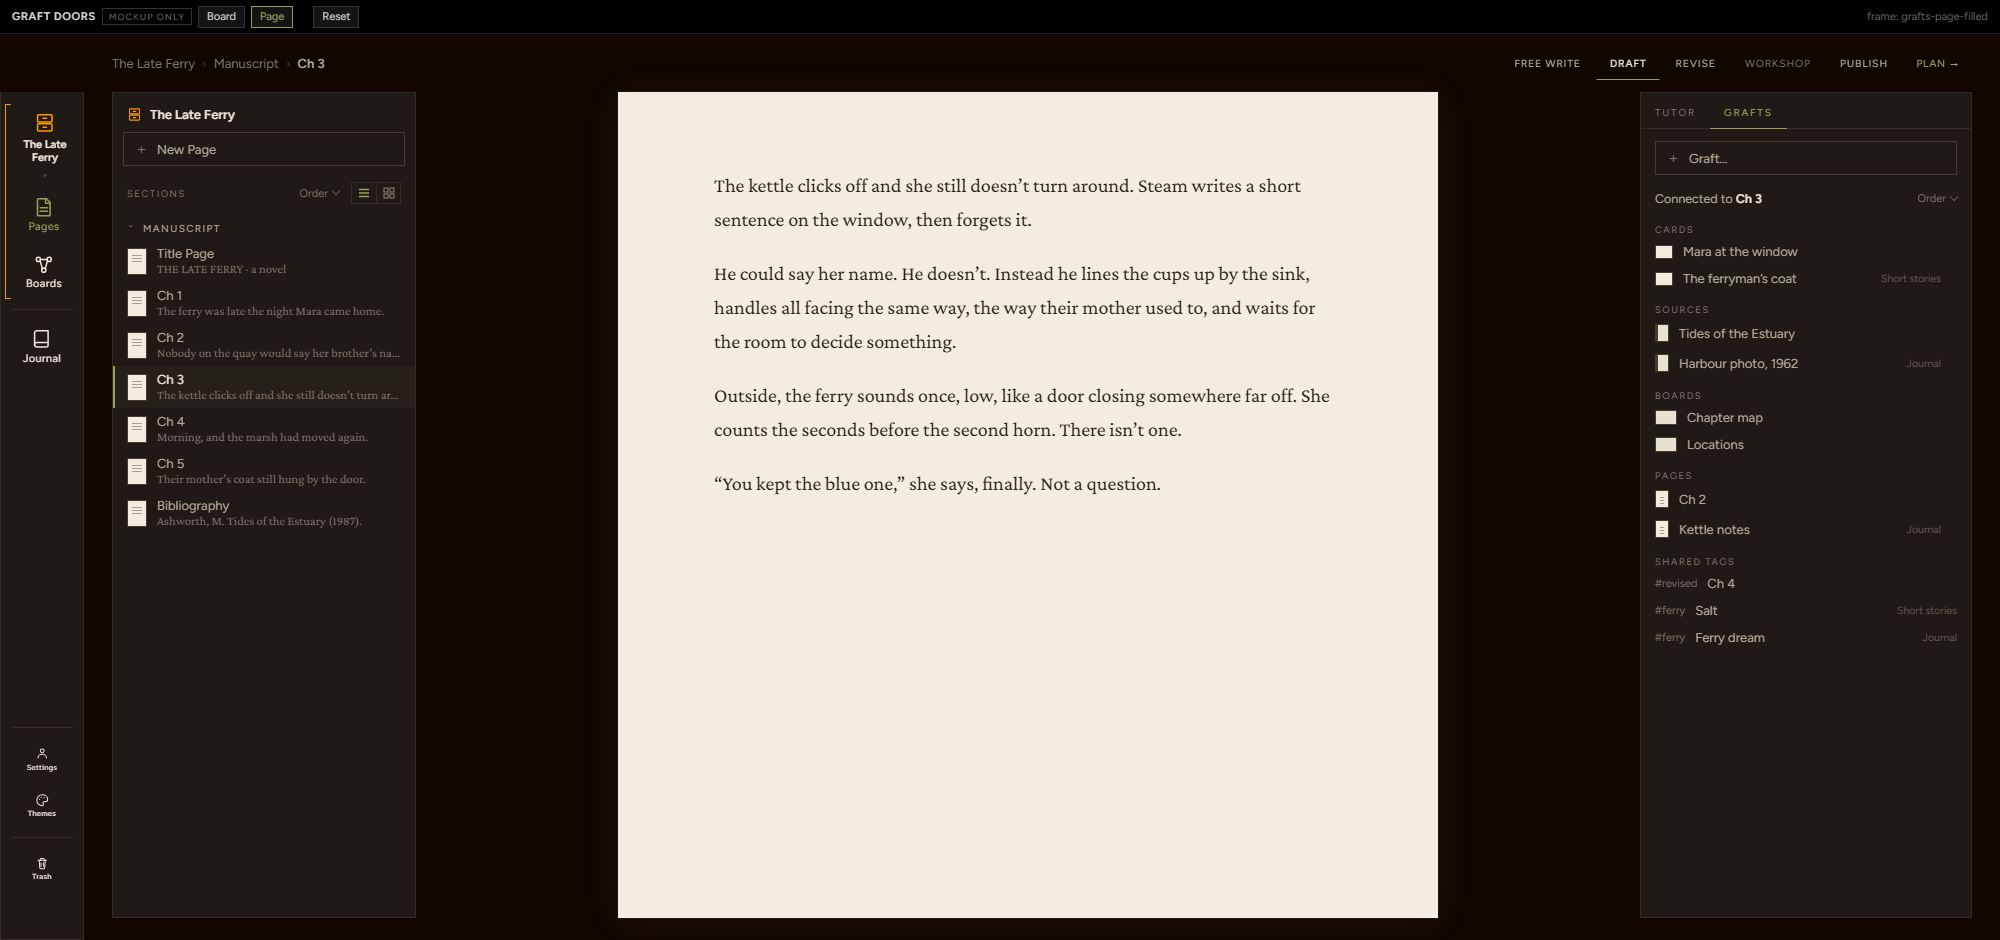
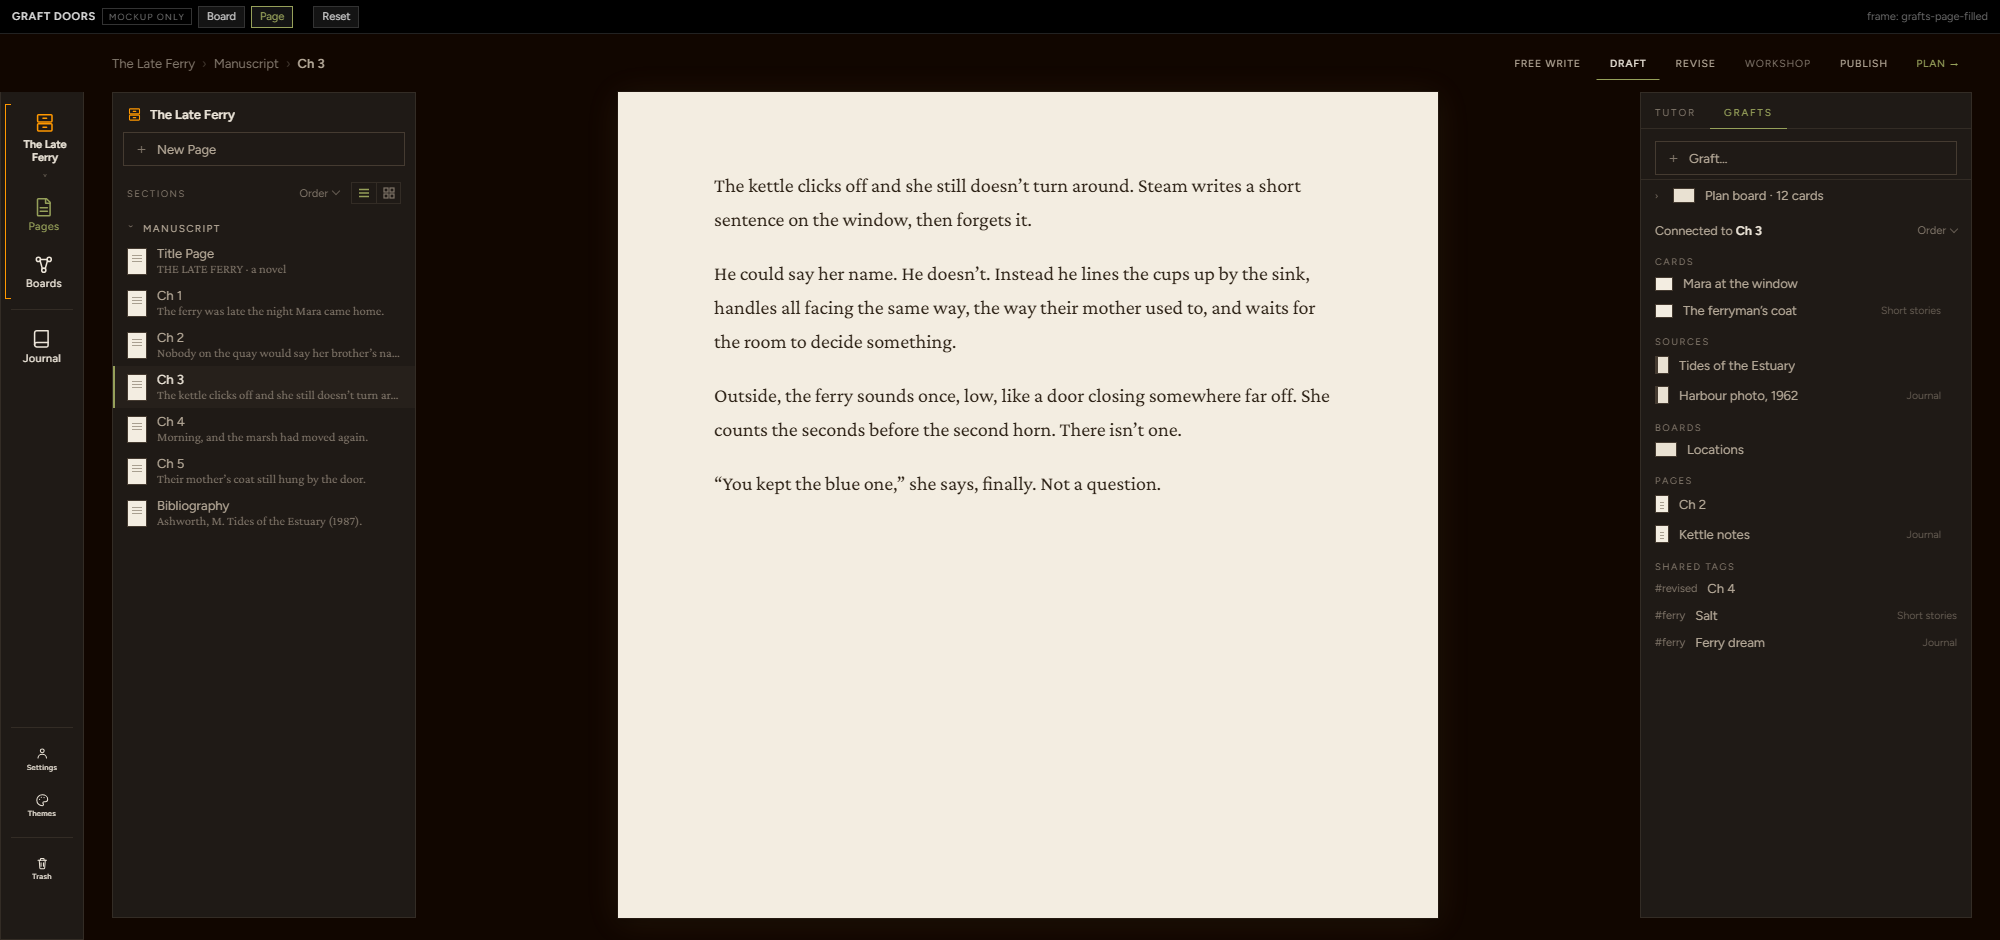
graft-doors mockup: board mode strip (Open/Storyboard/Outline/Pages), picker checks on already-grafted, Plan board group + paired page, Came from row; extra frames re-shot

diff --git a/docs/mockups/graft-doors/index.html b/docs/mockups/graft-doors/index.html
@@ -17,7 +17,11 @@
   (2) "+ Graft..." at the top of the Grafts tab, on a page AND on a board. Opens a picker: search field, then
       Cards / Pages / Boards from any Drawer or Journal, each with a faint place label and a check on ones
       already grafted.
+  Nick: a page's Grafts shows its paired plan board as ONE folded row, "Plan board · 12 cards", opening to its cards
+  (each with an X: "hide from this page"). A board's Grafts shows its paired page at the top. A brand-new page's
+  picker shows "Came from: Ch 3" as its top row (one tap; no auto-link, no question).
   Frames: ?frame=knob-hover | knob-dragging | knob-landed | graft-picker-page | graft-picker-board | grafts-page-filled
+          | grafts-plan-group | grafts-plan-group-open | picker-came-from
   Branch: cursor/graft-doors-mockup. Rig bar = mockup only.
 -->
 <style>
@@ -83,6 +87,7 @@
   .crumb .sep { color: var(--ink-border-strong); }
   .here { color: var(--text-mid); font-weight: 600; }
   .modes { display: flex; align-items: center; gap: 1.6px; }
+  .modes[hidden] { display: none; }
   .mt { border: 1px solid transparent; padding: 9px 12.8px; font-size: 10.4px; letter-spacing: .08em; text-transform: uppercase; color: var(--text-mid); }
   .mt:hover { color: var(--text-hi); background: var(--ink-800); }
   .mt.on { color: var(--text-hi); border-bottom-color: var(--accent-rest); }
@@ -200,6 +205,18 @@
   .tagm { flex: 0 0 auto; font-size: 11px; color: var(--text-low); }
   .gr.tagged { padding-right: 14px; }
   .gempty { padding: 18px 14px; font-size: 12.5px; color: var(--text-low); line-height: 1.45; }
+  .planrow { display: flex; align-items: center; gap: 10px; width: 100%; padding: 8px 14px; text-align: left; color: var(--text-mid); font-size: 13px; border-top: 1px solid var(--ink-border); }
+  .planrow:hover { background: var(--ink-800); color: var(--text-hi); }
+  .planrow .cv { font-size: 9px; color: var(--text-low); width: 8px; }
+  .planrow[aria-expanded='true'] .cv { transform: rotate(90deg); }
+  .planrow .n { margin-left: auto; font-size: 11px; color: var(--text-low); }
+  .pair { display: flex; align-items: center; gap: 10px; padding: 8px 14px 6px; color: var(--text-mid); font-size: 13px; }
+  .pair .k { flex: 0 0 auto; }
+  .pair .lab2 { font-size: 10px; letter-spacing: .12em; text-transform: uppercase; color: var(--text-low); margin-right: 4px; }
+  .came { display: flex; align-items: center; gap: 9px; width: 100%; padding: 9px 14px; text-align: left; color: var(--text-hi); font-size: 13px; border-bottom: 1px solid var(--ink-border); }
+  .came:hover { background: var(--ink-800); }
+  .came .from { font-size: 10.5px; letter-spacing: .1em; text-transform: uppercase; color: var(--text-low); }
+  .came .t { font-weight: 600; }
 
   /* ---- graft picker ---- */
   .gpick { position: fixed; z-index: 75; width: 300px; max-height: min(560px, calc(100vh - 80px)); display: flex; flex-direction: column;
@@ -271,13 +288,19 @@
 <div class="app">
   <div class="top">
     <div class="crumb" id="crumb"></div>
-    <div class="modes" id="modes" role="tablist" aria-label="Writing mode">
+    <div class="modes" id="pageModes" role="tablist" aria-label="Writing mode">
       <button class="mt" role="tab" type="button">Free Write</button>
       <button class="mt on" role="tab" aria-selected="true" type="button">Draft</button>
       <button class="mt" role="tab" type="button">Revise</button>
       <button class="mt off" role="tab" aria-disabled="true" type="button">Workshop</button>
       <button class="mt" role="tab" type="button">Publish</button>
       <button class="plan" type="button">Plan <span aria-hidden="true">→</span></button>
+    </div>
+    <div class="modes" id="boardModes" role="tablist" aria-label="Board mode" hidden>
+      <button class="mt on" role="tab" aria-selected="true" type="button">Open</button>
+      <button class="mt" role="tab" type="button">Storyboard</button>
+      <button class="mt" role="tab" type="button">Outline</button>
+      <button class="plan" type="button">Pages <span aria-hidden="true">→</span></button>
     </div>
   </div>
 
@@ -412,15 +435,21 @@
     { grp: 'Boards', t: 'Story ideas', plc: 'Short stories', id: 'b-story-ideas' }
   ];
 
-  var S = { surface: 'board', pop: 'pages', tab: 'grafts', subject: 'c1', lines: [], gundo: null };
+  var PLAN_CARDS = [
+    { id: 'pc1', t: 'Mara at the window' }, { id: 'pc2', t: 'The blue cup' }, { id: 'pc3', t: 'Second horn' },
+    { id: 'pc4', t: 'The ferryman’s coat' }, { id: 'pc5', t: 'Cups at the sink' }, { id: 'pc6', t: 'The ferry light' },
+    { id: 'pc7', t: 'Mother’s coat' }, { id: 'pc8', t: 'The ledger' }, { id: 'pc9', t: 'Harbour office' },
+    { id: 'pc10', t: 'Marsh at morning' }, { id: 'pc11', t: 'Quay families' }, { id: 'pc12', t: 'The last crossing' }
+  ];
+  var S = { surface: 'board', pop: 'pages', tab: 'grafts', subject: 'c1', lines: [], gundo: null, planOpen: false, cameFrom: null, newPage: false };
   var SORTS = ['Order', 'Date', 'Tag', 'Most opened', 'Least opened'];
 
   function subjectTitle() {
-    if (S.surface === 'page') return ch3.t;
+    if (S.surface === 'page') return S.newPage ? 'Untitled' : ch3.t;
     var c = CARDS.find(function (x) { return x.id === S.subject; });
     return c ? c.t : 'Untitled';
   }
-  function subjectId() { return S.surface === 'page' ? ch3.id : S.subject; }
+  function subjectId() { return S.surface === 'page' ? (S.newPage ? 'p-new' : ch3.id) : S.subject; }
 
   // ---- rail / crumb / surface ----
   function renderRail() {
@@ -431,15 +460,22 @@
   function renderCrumb() {
     if (S.surface === 'board') {
       $('#crumb').innerHTML = '<span>The Late Ferry</span><span class="sep">›</span><span class="here">Chapter map</span>';
-      $('#modes').hidden = true;
+      $('#pageModes').hidden = true; $('#boardModes').hidden = false;
     } else {
-      $('#crumb').innerHTML = '<span>The Late Ferry</span><span class="sep">›</span><span>Manuscript</span><span class="sep">›</span><span class="here">Ch 3</span>';
-      $('#modes').hidden = false;
+      $('#crumb').innerHTML = S.newPage
+        ? '<span>The Late Ferry</span><span class="sep">›</span><span>Manuscript</span><span class="sep">›</span><span class="here">Untitled</span>'
+        : '<span>The Late Ferry</span><span class="sep">›</span><span>Manuscript</span><span class="sep">›</span><span class="here">Ch 3</span>';
+      $('#pageModes').hidden = false; $('#boardModes').hidden = true;
     }
   }
   function renderSurface() {
     $('#page').hidden = S.surface !== 'page';
     $('#board').hidden = S.surface !== 'board';
+    if (S.surface === 'page') {
+      $('#prose').innerHTML = S.newPage
+        ? '<p style="color:var(--ink-on-paper-low)">Start anywhere.</p>'
+        : '<p>The kettle clicks off and she still doesn’t turn around. Steam writes a short sentence on the window, then forgets it.</p><p>He could say her name. He doesn’t. Instead he lines the cups up by the sink, handles all facing the same way, the way their mother used to, and waits for the room to decide something.</p><p>Outside, the ferry sounds once, low, like a door closing somewhere far off. She counts the seconds before the second horn. There isn’t one.</p><p>“You kept the blue one,” she says, finally. Not a question.</p>';
+    }
   }
 
   // ---- Pages / Boards pop-outs (big-projects, slimmed) ----
@@ -622,6 +658,32 @@
     g.appendChild(add);
 
     var sid = subjectId(), data = ensureG(sid);
+    if (S.surface === 'page' && !S.newPage) {
+      var pr = document.createElement('button'); pr.type = 'button'; pr.className = 'planrow';
+      pr.setAttribute('aria-expanded', String(!!S.planOpen));
+      pr.innerHTML = '<span class="cv">›</span><span class="minib" style="width:22px;height:15px"></span><span class="t">Plan board · ' + PLAN_CARDS.length + ' cards</span>';
+      pr.addEventListener('click', function () { S.planOpen = !S.planOpen; render(); });
+      g.appendChild(pr);
+      if (S.planOpen) {
+        PLAN_CARDS.forEach(function (it, idx) {
+          var r = document.createElement('div'); r.className = 'gr';
+          r.innerHTML = '<span class="gk-card"></span><span class="t"></span><button class="x" type="button" title="Hide from this page">×</button>';
+          r.querySelector('.t').textContent = it.t;
+          r.querySelector('.x').setAttribute('aria-label', 'Hide from this page');
+          r.querySelector('.x').addEventListener('click', function () {
+            PLAN_CARDS.splice(idx, 1);
+            S.gundo = { it: it, list: PLAN_CARDS, i: idx, hide: true };
+            render();
+          });
+          g.appendChild(r);
+        });
+      }
+    }
+    if (S.surface === 'board') {
+      var pair = document.createElement('div'); pair.className = 'pair';
+      pair.innerHTML = '<span class="mini" style="width:14px;height:18px"></span><span class="lab2">Page</span><span class="t">Ch 3</span>';
+      g.appendChild(pair);
+    }
     var h = document.createElement('div'); h.className = 'ghead';
     h.innerHTML = '<span class="gt">Connected to <em></em></span><button class="sort" type="button">Order</button>';
     h.querySelector('em').textContent = subjectTitle();
@@ -668,7 +730,7 @@
       var sp = document.createElement('div'); sp.style.flex = '1'; g.appendChild(sp);
       var u = document.createElement('div'); u.className = 'undo'; u.style.cssText = 'display:flex;align-items:center;gap:10px;padding:9px 14px;border-top:1px solid var(--ink-border-strong);background:var(--ink-800);font-size:12px;color:var(--text-mid);margin-top:auto;';
       u.innerHTML = '<span></span><button type="button" style="color:var(--text-hi);text-decoration:underline;text-underline-offset:2px">Undo</button>';
-      u.querySelector('span').textContent = 'Graft to ' + S.gundo.it.t + ' removed.';
+      u.querySelector('span').textContent = S.gundo.hide ? (S.gundo.it.t + ' hidden from this page.') : ('Graft to ' + S.gundo.it.t + ' removed.');
       u.querySelector('button').addEventListener('click', function () { S.gundo.list.splice(S.gundo.i, 0, S.gundo.it); S.gundo = null; render(); });
       g.appendChild(u);
     }
@@ -695,6 +757,17 @@
   function renderPicker() {
     var q = ($('#gsearch').value || '').trim().toLowerCase();
     var sid = subjectId(), box = $('#glist'); box.innerHTML = '';
+    if (S.cameFrom) {
+      var came = document.createElement('button'); came.type = 'button'; came.className = 'came';
+      came.innerHTML = '<span class="from">Came from</span><span class="t"></span>';
+      came.querySelector('.t').textContent = S.cameFrom;
+      came.addEventListener('click', function () {
+        addGraft(sid, { grp: 'Pages', t: S.cameFrom, id: 'p-ch-3', plc: 'The Late Ferry' });
+        S.cameFrom = null;
+        closeAll(); render();
+      });
+      box.appendChild(came);
+    }
     ['Cards', 'Pages', 'Boards'].forEach(function (grp) {
       var items = CATALOG.filter(function (c) {
         if (c.grp !== grp) return false;
@@ -760,8 +833,9 @@
     b.addEventListener('click', function () {
       S.surface = b.dataset.surf;
       S.subject = S.surface === 'page' ? ch3.id : 'c1';
-      S.pop = S.surface === 'board' ? 'pages' : 'pages';
+      S.pop = 'pages';
       S.tab = 'grafts';
+      S.newPage = false; S.cameFrom = null; S.planOpen = false;
       closeAll(); render();
     });
   });
@@ -783,7 +857,9 @@
         k.classList.add('tip');
         var r = k.getBoundingClientRect();
         var tip = $('#tip'); tip.hidden = false;
-        tip.style.left = Math.round(r.right + 10) + 'px'; tip.style.top = Math.round(r.top - 2) + 'px';
+        var left = Math.round(r.right + 10), top = Math.round(r.top - 4);
+        if (left + 110 > innerWidth - 8) left = Math.round(r.left - 110);
+        tip.style.left = left + 'px'; tip.style.top = top + 'px';
       };
     },
     'knob-dragging': function () {
@@ -810,9 +886,8 @@
       S.lines = [{ from: 'c1', to: 'c2' }];
     },
     'graft-picker-page': function () {
-      S.surface = 'page'; S.pop = 'pages'; S.tab = 'grafts'; S.subject = ch3.id;
-      // start empty so the door is the story
-      GRAFTS[ch3.id] = emptyG(); SHARED[ch3.id] = [];
+      S.surface = 'page'; S.pop = 'pages'; S.tab = 'grafts'; S.subject = ch3.id; S.newPage = false; S.cameFrom = null;
+      fillCh3();
       return function () { openPicker(); };
     },
     'graft-picker-board': function () {
@@ -821,15 +896,31 @@
       return function () { openPicker(); };
     },
     'grafts-page-filled': function () {
-      S.surface = 'page'; S.pop = 'pages'; S.tab = 'grafts'; S.subject = ch3.id;
-      // restore the filled Ch 3 grafts (in case another frame emptied them)
-      ensureG(ch3.id).Cards = [{ t: 'Mara at the window', plc: '', id: 'c1' }, { t: 'The ferryman’s coat', plc: 'Short stories', id: 'c4' }];
-      ensureG(ch3.id).Sources = [{ t: 'Tides of the Estuary', plc: '', id: 's-tides' }, { t: 'Harbour photo, 1962', plc: 'Journal', id: 's-harbour' }];
-      ensureG(ch3.id).Boards = [{ t: 'Chapter map', plc: '', id: 'b-chapter-map' }, { t: 'Locations', plc: '', id: 'b-locations' }];
-      ensureG(ch3.id).Pages = [{ t: 'Ch 2', plc: '', id: 'p-ch-2' }, { t: 'Kettle notes', plc: 'Journal', id: 'p-kettle' }];
-      SHARED[ch3.id] = [{ t: 'Ch 4', tag: 'revised', plc: '' }, { t: 'Salt', tag: 'ferry', plc: 'Short stories' }, { t: 'Ferry dream', tag: 'ferry', plc: 'Journal' }];
+      S.surface = 'page'; S.pop = 'pages'; S.tab = 'grafts'; S.subject = ch3.id; S.newPage = false; S.planOpen = false;
+      fillCh3();
+    },
+    'grafts-plan-group': function () {
+      S.surface = 'page'; S.pop = 'pages'; S.tab = 'grafts'; S.subject = ch3.id; S.newPage = false; S.planOpen = false;
+      fillCh3();
+    },
+    'grafts-plan-group-open': function () {
+      S.surface = 'page'; S.pop = 'pages'; S.tab = 'grafts'; S.subject = ch3.id; S.newPage = false; S.planOpen = true;
+      fillCh3();
+    },
+    'picker-came-from': function () {
+      S.surface = 'page'; S.pop = 'pages'; S.tab = 'grafts'; S.newPage = true; S.cameFrom = 'Ch 3'; S.planOpen = false;
+      GRAFTS['p-new'] = emptyG(); SHARED['p-new'] = [];
+      return function () { openPicker(); };
     }
   };
+
+  function fillCh3() {
+    ensureG(ch3.id).Cards = [{ t: 'Mara at the window', plc: '', id: 'c1' }, { t: 'The ferryman’s coat', plc: 'Short stories', id: 'c4' }];
+    ensureG(ch3.id).Sources = [{ t: 'Tides of the Estuary', plc: '', id: 's-tides' }, { t: 'Harbour photo, 1962', plc: 'Journal', id: 's-harbour' }];
+    ensureG(ch3.id).Boards = [{ t: 'Locations', plc: '', id: 'b-locations' }];
+    ensureG(ch3.id).Pages = [{ t: 'Ch 2', plc: '', id: 'p-ch-2' }, { t: 'Kettle notes', plc: 'Journal', id: 'p-kettle' }];
+    SHARED[ch3.id] = [{ t: 'Ch 4', tag: 'revised', plc: '' }, { t: 'Salt', tag: 'ferry', plc: 'Short stories' }, { t: 'Ferry dream', tag: 'ferry', plc: 'Journal' }];
+  }
 
   var frame = qs.get('frame'), after = null;
   if (frame && FRAMES[frame]) after = FRAMES[frame]();
